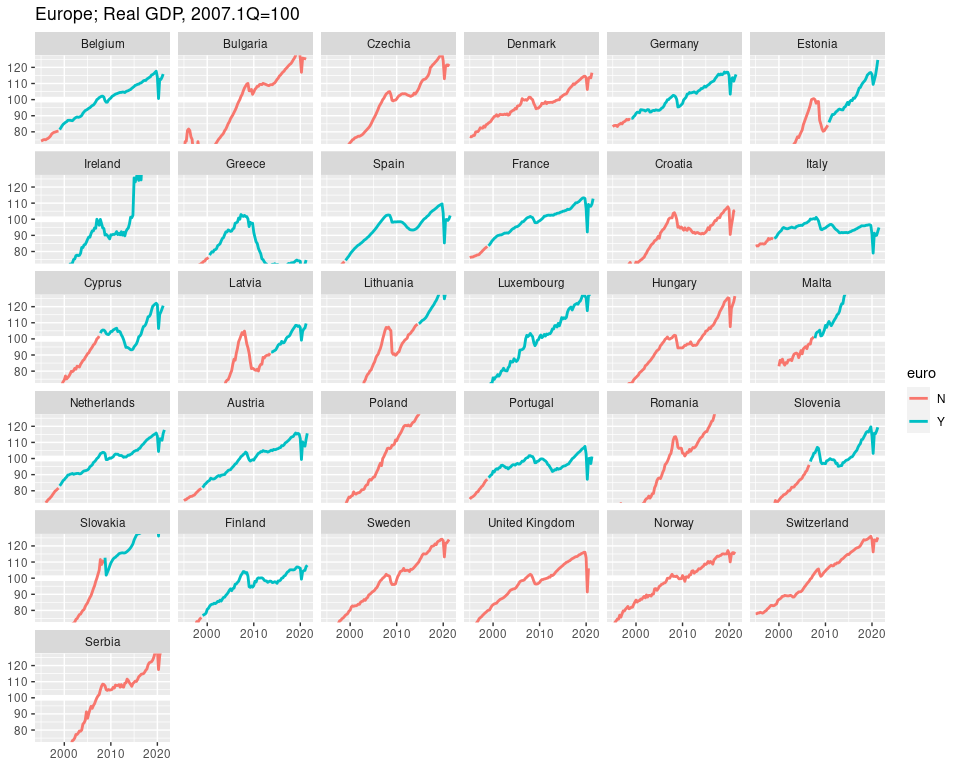
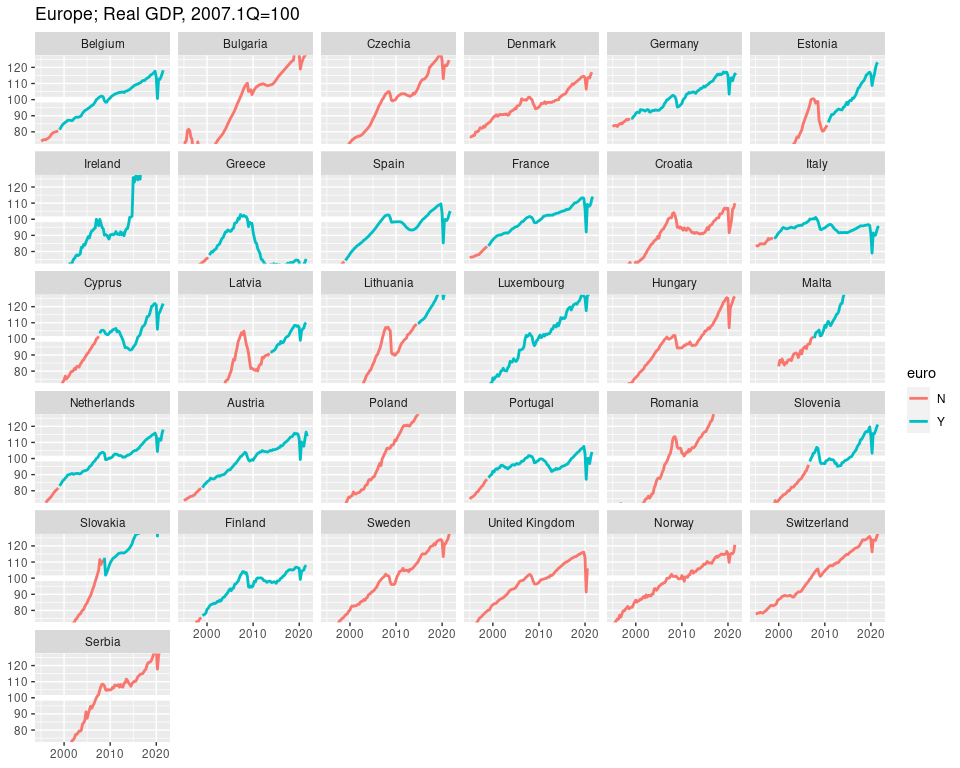
update 2021 Q4

diff --git a/README.md b/README.md
@@ -11,7 +11,7 @@ Mitsuo Shiota
     when](#which-country-introduced-euro-and-when)
 -   [Plot](#plot)
 
-Updated: 2021-11-30
+Updated: 2022-02-01
 
 I used to predict whether the country adopts euro or not by fitting
 logistic regression using its GDP recovery from the Great Recession up
@@ -38,15 +38,15 @@ library(rvest)
 provides a wide variety of data. Honestly, it is hard to find the right
 table and parameters. Anyway, I dig Data navigation tree down to
 “Quarterly national accounts”, reach “GDP and main components (output,
-expenditure and income) (namq\_10\_gdp)”, and know the table name is
-“namq\_10\_gdp”. Click Data Explorer icon, and a new window with a large
+expenditure and income) (namq_10_gdp)”, and know the table name is
+“namq_10_gdp”. Click Data Explorer icon, and a new window with a large
 table appears. Look at the upper part, and click + icon to know the
 parameters, like:
 
--   unit: CLV15\_MNAC: Chain linked volumes (2015), million units of
+-   unit: CLV15_MNAC: Chain linked volumes (2015), million units of
     national currency
--   s\_adj: SCA: Seasonally and calendar adjusted data
--   na\_item: B1GQ; Gross domestic product at market prices
+-   s_adj: SCA: Seasonally and calendar adjusted data
+-   na_item: B1GQ; Gross domestic product at market prices
 
 [Cheat sheet: eurostat R
 package](https://cran.r-project.org/web/packages/eurostat/vignettes/cheatsheet.html)
@@ -135,7 +135,7 @@ euro_entry_tbl <- euro_entry_tbl %>%
   )
 ```
 
-I add “date\_fixed” column to GDP data, compare it with “time” column,
+I add “date_fixed” column to GDP data, compare it with “time” column,
 and get “euro” column to show whether each time (row) is in euro (“Y”)
 or not (“N”).
 
@@ -193,7 +193,7 @@ eu_gdp %>%
     )
 ```
 
-    ## Warning: Removed 1 row(s) containing missing values (geom_path).
+    ## Warning: Removed 2 row(s) containing missing values (geom_path).
 
 ![](README_files/figure-gfm/plot-1.png)<!-- -->
 
@@ -202,6 +202,6 @@ ggsave(filename = "output/GDP-euro-or-not.pdf",
        width = 10, height = 8, units = "in", dpi = 300)
 ```
 
-    ## Warning: Removed 1 row(s) containing missing values (geom_path).
+    ## Warning: Removed 2 row(s) containing missing values (geom_path).
 
 EOL
